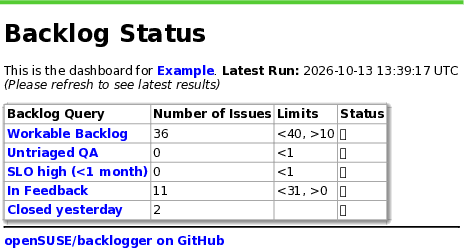
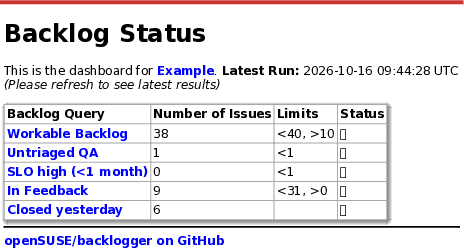
Deploying to gh-pages from @ openSUSE/backlogger@b4eec640a5da221be25a836f6cabe63d1753df11 🚀

diff --git a/index.html b/index.html
@@ -9,7 +9,7 @@
 <style>
 main {
     font-family: Verdana, Arial;
-    border-top: 5px solid #55cc33;
+    border-top: 5px solid #cc3333;
     margin: 0px 5px 5px 5px;
     padding: 0 5px;
     background-color: white;
@@ -34,7 +34,7 @@ a {
 <main>
 <h1>Backlog Status</h1>
 <p>This is the dashboard for <a href="http://example.com">Example</a>.
-<strong>Latest Run:</strong> 2026-10-13 13:39:17 UTC
+<strong>Latest Run:</strong> 2026-10-16 09:44:28 UTC
 <em>(Please refresh to see latest results)</em></p>
 <table>
 <thead>
@@ -48,15 +48,15 @@ a {
 <tbody>
 <tr>
 <td><a href="https://progress.opensuse.org/issues?query_id=478">Workable Backlog</a></td>
-<td>36</td>
+<td>38</td>
 <td>&lt;40, &gt;10</td>
 <td>&#x1F49A;</td>
 </tr>
 <tr>
 <td><a href="https://progress.opensuse.org/issues?query_id=576&amp;project_id=115">Untriaged QA</a></td>
-<td>0</td>
+<td>1</td>
 <td>&lt;1</td>
-<td>&#x1F49A;</td>
+<td>&#x1F534;</td>
 </tr>
 <tr>
 <td><a href="https://progress.opensuse.org/issues?query_id=544">SLO high (&lt;1 month)</a></td>
@@ -66,13 +66,13 @@ a {
 </tr>
 <tr>
 <td><a href="https://progress.opensuse.org/issues?query_id=520">In Feedback</a></td>
-<td>11</td>
+<td>9</td>
 <td>&lt;31, &gt;0</td>
 <td>&#x1F49A;</td>
 </tr>
 <tr>
 <td><a href="https://progress.opensuse.org/issues?query_id=773">Closed yesterday</a></td>
-<td>2</td>
+<td>6</td>
 <td></td>
 <td>&#x1F49A;</td>
 </tr>
